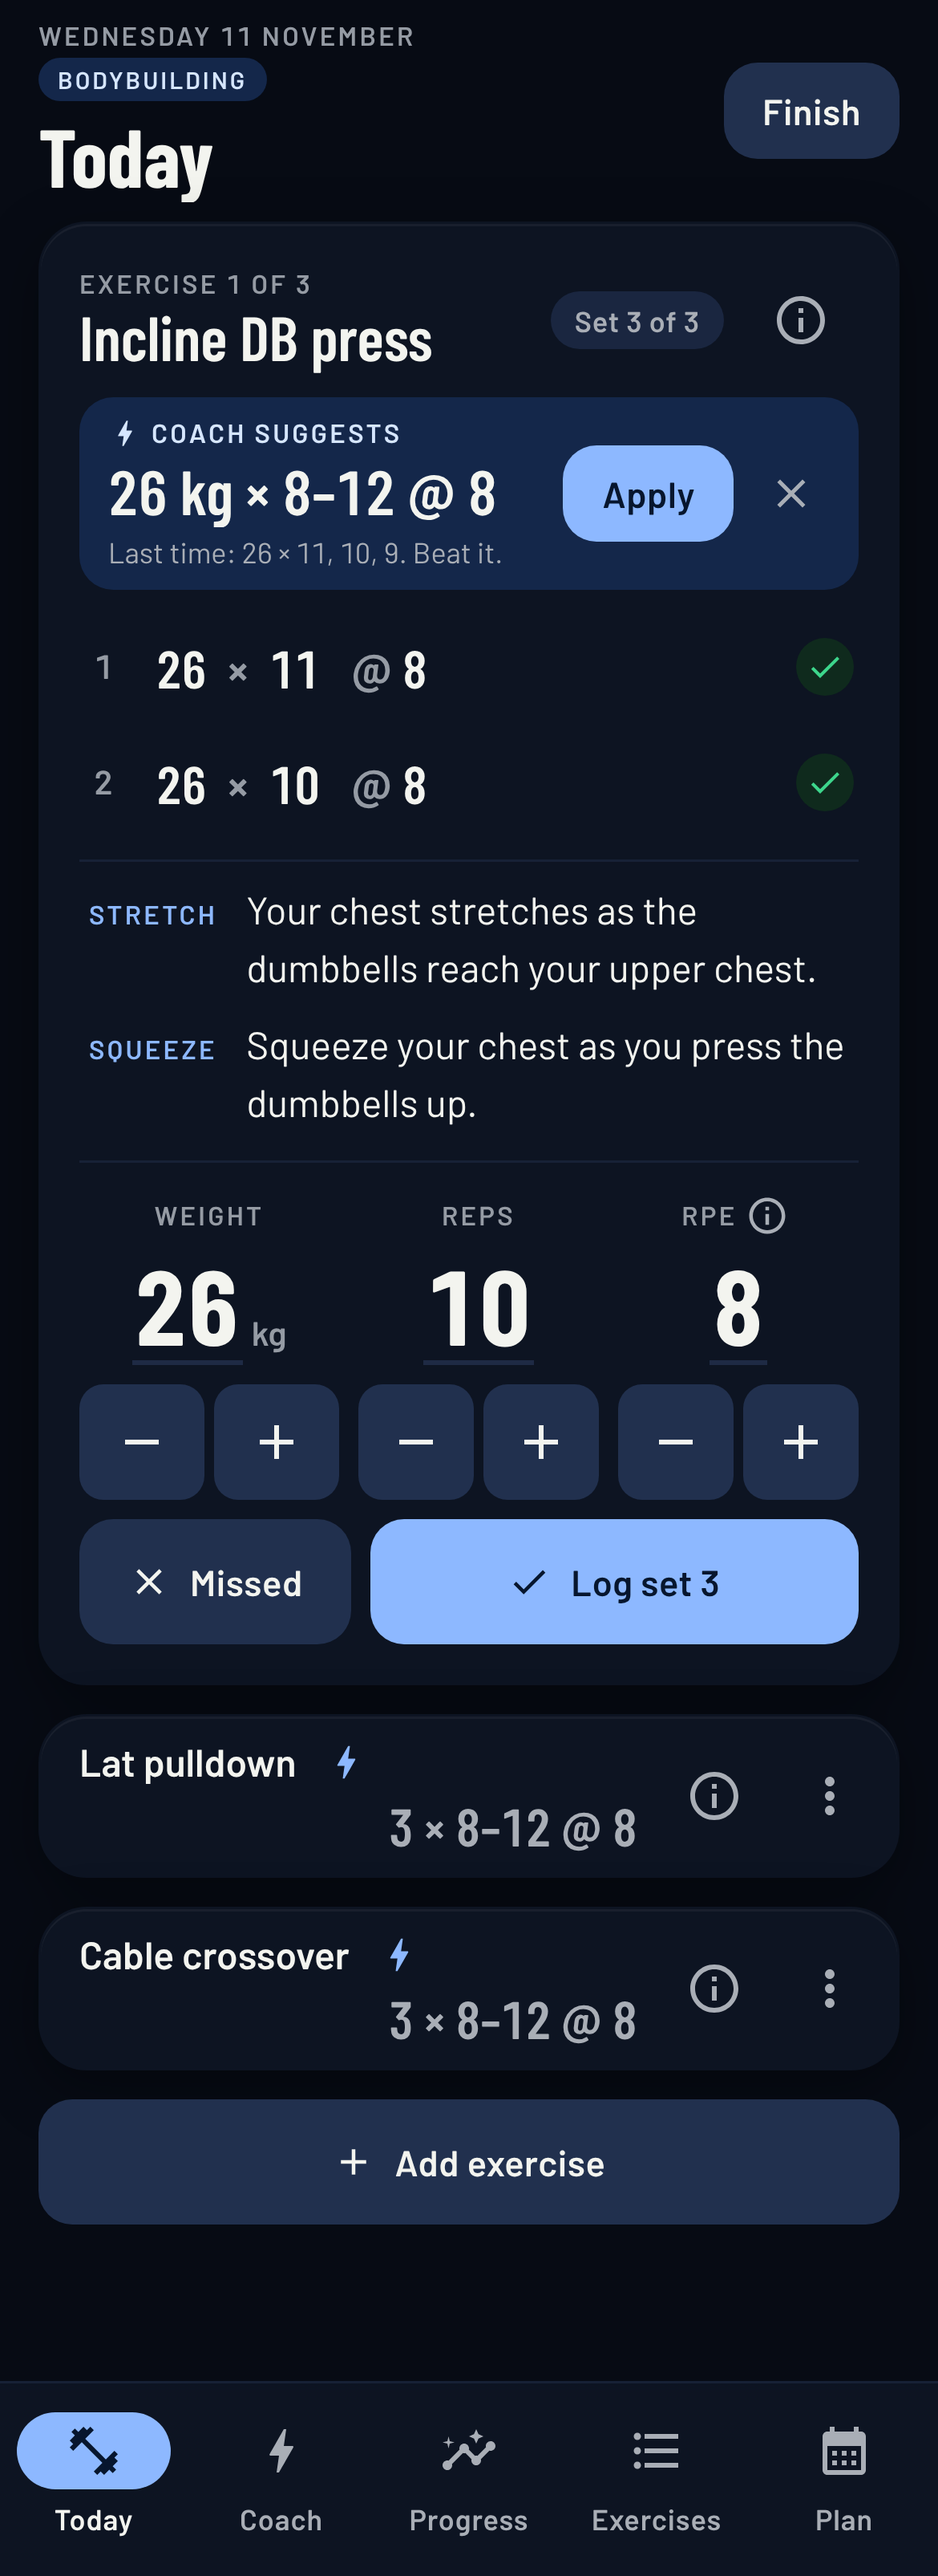
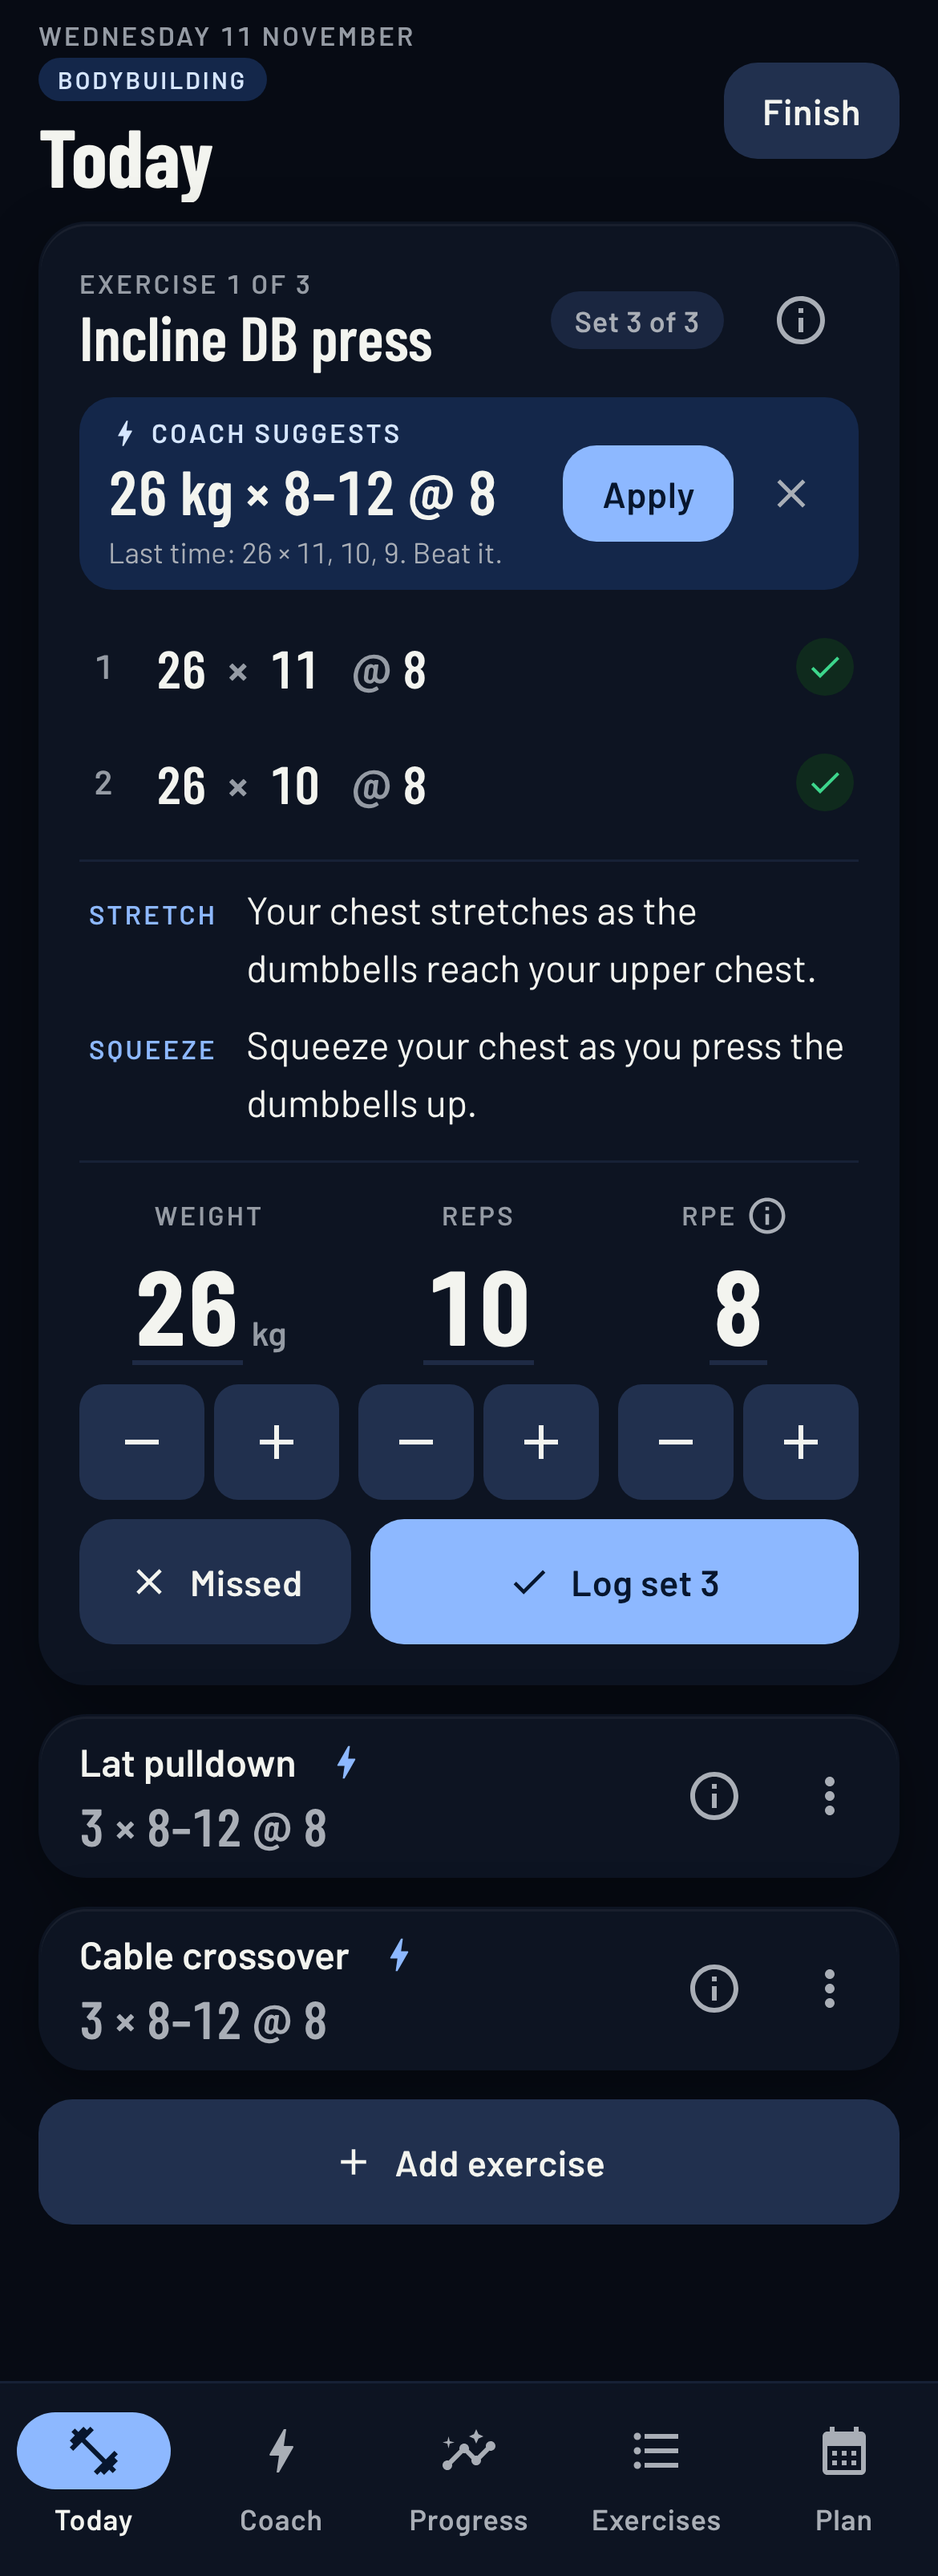
fix(web): the start card's suggestion keeps its room; a wrapped plan starts the line
The name's box takes the rest of its line again, so "Coach suggests" under a
name on the start card is not cut to the name's width. A plan or count that
goes under a name starts the line, as Android's WrappingPair does. The
names-whole check also skips the longest name onto the "Skipped today" line.

Claude-Session: https://claude.ai/code/session_01KboHw6FdBYrNDSMx1QWyzy

diff --git a/web/e2e/skip.spec.ts b/web/e2e/skip.spec.ts
@@ -2,7 +2,7 @@ import { mkdirSync } from 'node:fs'
 import { resolve } from 'node:path'
 import { expect, test, type Page } from '@playwright/test'
 import { GritDomain } from '../src/domain/generated/powertracker-domain.mjs'
-import { openOnWednesday, pastTheTapWindow, tabBar } from './helpers'
+import { openOnWednesday, pastTheTapWindow, seedFlatBench, tabBar } from './helpers'
 
 const grit = GritDomain.getInstance()
 
@@ -144,6 +144,15 @@ test('doubleTapSkipToday_aTapJustAfterTheSlide_picksNothing', async ({ page }) =
   await expect(page.getByText('Wednesday · 1 exercise')).toBeVisible()
 })
 
+test('startCard_suggestion_hasTheRoomBesideTheName', async ({ page }) => {
+  // The plan and the name share a wrapping line (1.13); the coach's suggestion under the name still has the line's room.
+  await openOnWednesday(page)
+  await seedFlatBench(page)
+  const suggestion = page.locator('.today-plan-suggestion .today-ellipsis')
+  await expect(suggestion).toHaveText(/^Coach suggests /)
+  expect(await suggestion.evaluate((el) => el.scrollWidth <= el.clientWidth)).toBe(true)
+})
+
 for (const scheme of ['dark', 'light'] as const) {
   for (const side of ['POWERLIFTING', 'BODYBUILDING'] as const) {
     const suffix = `${side === 'BODYBUILDING' ? '-bodybuilding' : ''}-${scheme}`
@@ -249,9 +258,12 @@ for (const [label, viewport] of [
         await expect(page.getByRole('button', { name: `Options for ${names[1]}` })).toBeAttached()
         expect(await page.locator('.today-name').count()).toBe(names.length)
         expect(await namesWhole(page)).toEqual([])
-        // Skipped: the line's names too.
+        // Skipped: the line's names too, beside Bring back, the longest included.
         await (await openSheet(page, names[3]!)).getByRole('button', { name: 'Just skip' }).click()
         await expect(skippedLine(page).getByText(names[3]!)).toBeAttached()
+        await (await openSheet(page, names[0]!)).getByRole('button', { name: 'Just skip' }).click()
+        await expect(skippedLine(page).getByText(names[0]!)).toBeAttached()
+        expect(await skippedLine(page).locator('.today-name').count()).toBe(2)
         expect(await namesWhole(page)).toEqual([])
       })
     })

diff --git a/web/src/screens/today/today.css b/web/src/screens/today/today.css
@@ -22,7 +22,10 @@
   hyphens: manual;
 }
 
-/* A name and what goes with it (the plan, a count): side by side when they fit, else the second part on a line below. */
+/*
+ * A name and what goes with it (the plan, a count), as Android's WrappingPair: side by side when the name fits whole, the
+ * second part at the end; else the second part on a line below, at the start.
+ */
 .today-pair {
   display: flex;
   flex-wrap: wrap;
@@ -31,15 +34,15 @@
   row-gap: var(--space-1);
 }
 
+/* As wide as the name to decide the wrap, then the rest of the line: the suggestion under the name has all of it. */
 .today-pair-first {
-  flex: 0 1 auto;
+  flex: 1 1 auto;
   min-width: 0;
   max-width: 100%;
 }
 
 .today-pair-second {
   flex: none;
-  margin-left: auto;
 }
 
 .today-pair-row {
@@ -99,9 +102,6 @@
   max-width: 100%;
 }
 
-.today-card-head > .today-card-title + * {
-  margin-left: auto;
-}
 
 /*
  * Stretch and squeeze (bodybuilding side): a label column and the line beside it, as the mockup. The hairline above
